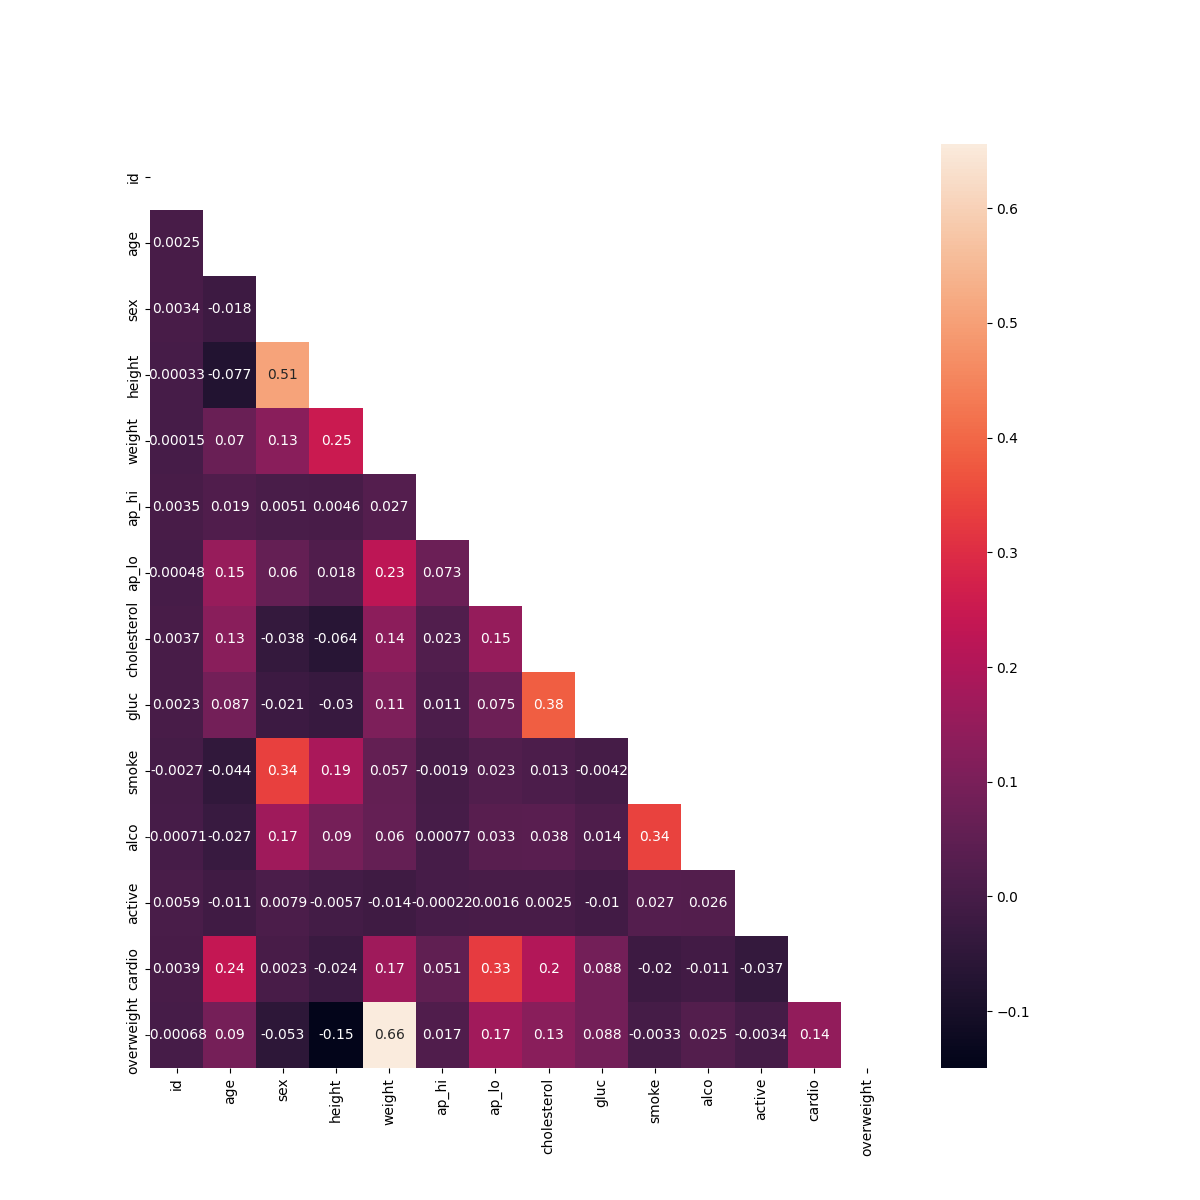
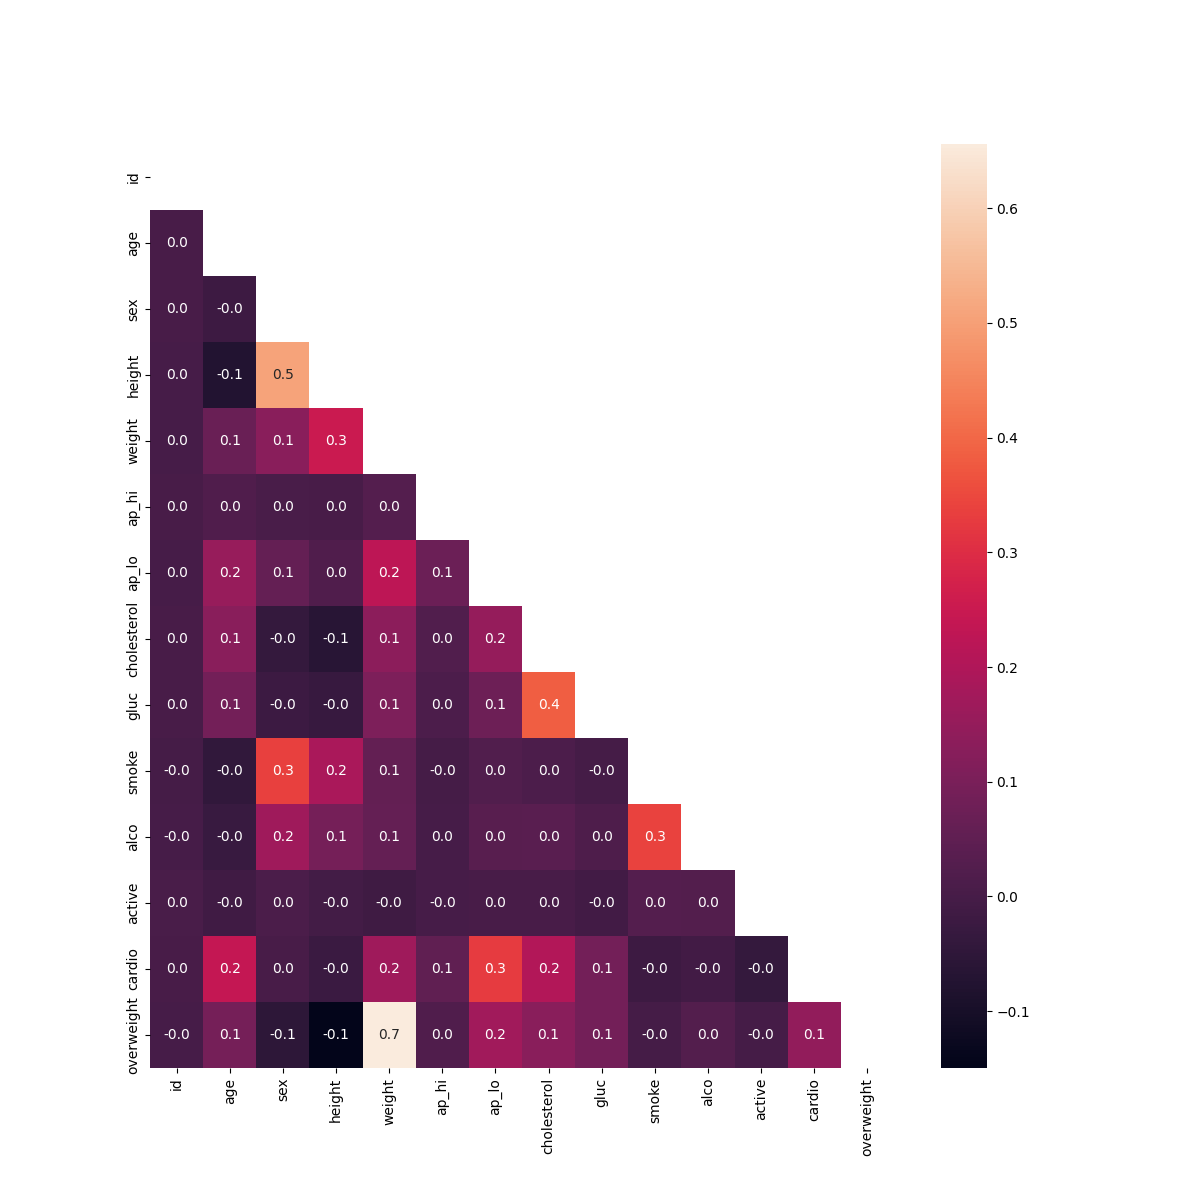
A3: fix - have to round fig numbers to 1dp for unit tests to pass

diff --git a/boilerplate-medical-data-visualizer/medical_data_visualizer.py b/boilerplate-medical-data-visualizer/medical_data_visualizer.py
@@ -63,6 +63,8 @@ def draw_heat_map():
         corr,
         mask=mask,
         annot=True,
+        fmt='.1f',
+        
         ax=ax
     )
 
